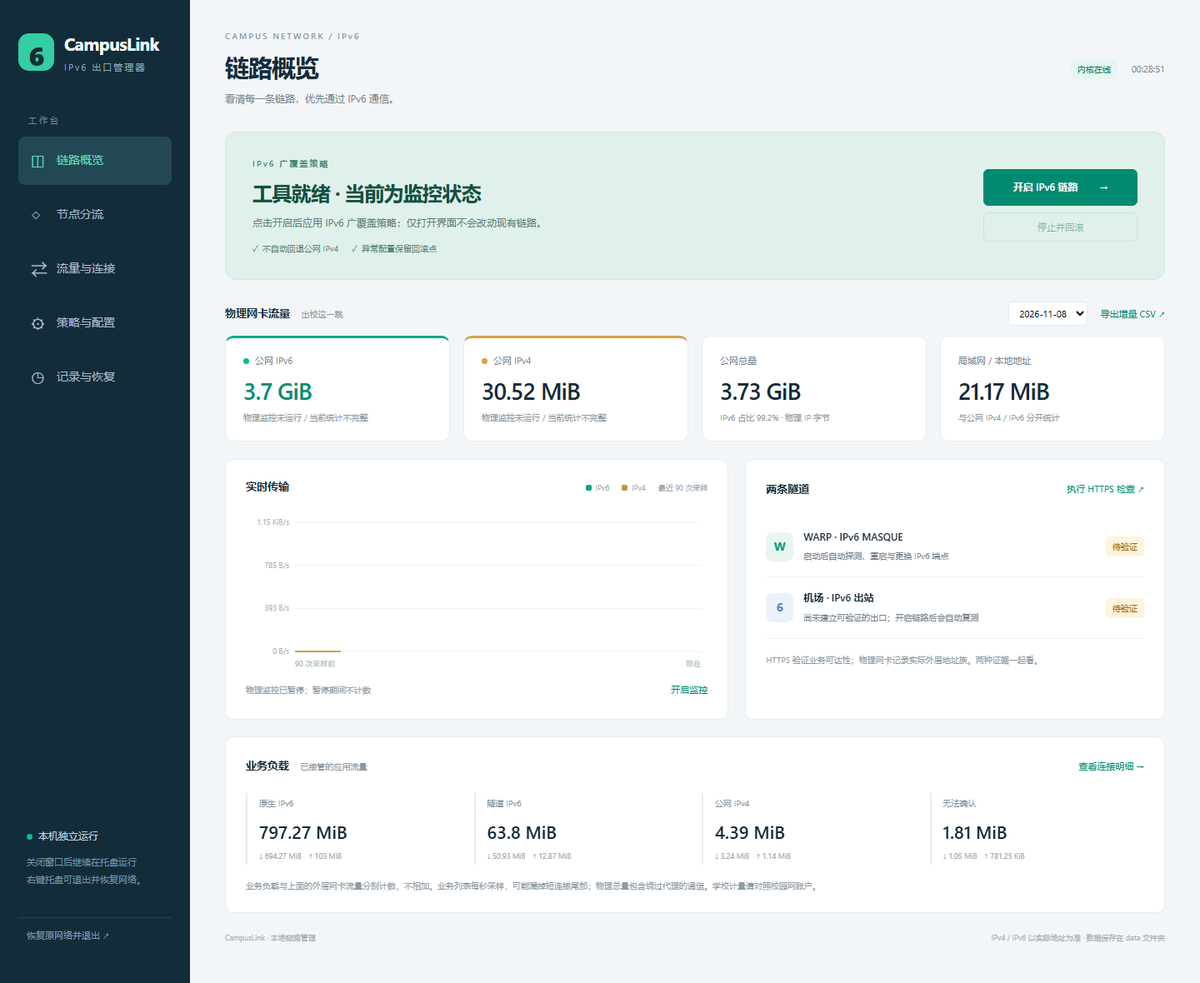
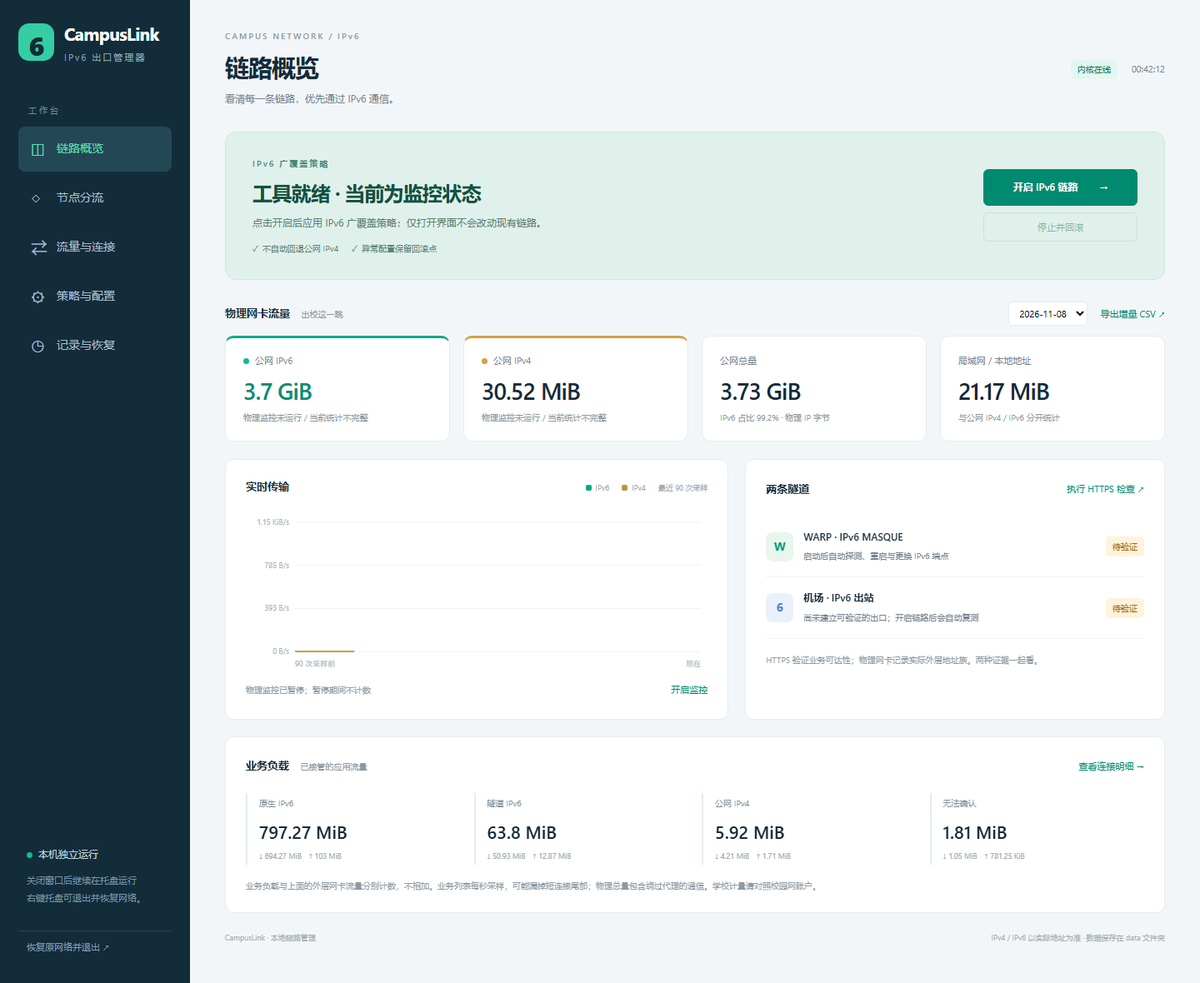
Fit the desktop window at 1100x750 and always start at the top
- sidebar spacing tightened; help note hides when the window is short
- page scroll is reset on load, scroll restoration disabled
- docs screenshots regenerated from the same build

diff --git a/web/style.css b/web/style.css
@@ -1,3 +1,4 @@
-:root{--bg:#f3f6f8;--ink:#162b39;--muted:#75838e;--line:#e5ebef;--green:#008b70;--mint:#e8f7f1;--amber:#b97b1b;--blue:#437cbe}*{box-sizing:border-box}body{margin:0;background:var(--bg);color:var(--ink);font:14px/1.6 "Segoe UI","Microsoft YaHei UI",sans-serif}button,input,select,textarea{font:inherit}button,a,input,select,textarea{outline-offset:3px}button,a{cursor:pointer}button{border:0;background:none;color:inherit}button:disabled{opacity:.5;cursor:wait}aside{position:fixed;width:228px;inset:0 auto 0 0;background:#132c3a;color:#c4d4dd;padding:36px 22px;display:flex;flex-direction:column;z-index:3}.brand{display:flex;gap:12px;align-items:center;font-size:21px;color:white;letter-spacing:-.6px;font-weight:650}.brand small{display:block;color:#8ca6b5;font-weight:400;font-size:11px;letter-spacing:2px;margin-top:2px}.logo{display:grid;place-items:center;width:43px;height:45px;border-radius:13px;background:#35cda4;color:#102d34;font-size:32px;font-weight:800}.nav-label{font-size:10px;color:#6e8d9f;letter-spacing:3px;margin:47px 12px 12px}nav{display:flex;flex-direction:column;gap:7px}nav button{text-align:left;padding:13px 15px;border-radius:8px;color:#a7becb}nav button span{display:inline-block;width:31px;font-size:20px;vertical-align:middle}nav button.active{background:#244755;color:#60ddb6}nav button:hover{background:#203f4d}.side-note{margin-top:auto;font-size:12px;padding:20px 10px 10px}.side-note p{font-size:11px;line-height:1.9;color:#7896a8}.dot{display:inline-block;width:7px;height:7px;background:#10b893;border-radius:50%;margin-right:7px}.exit{text-align:left;color:#809fae;font-size:11px;margin:14px 0 0;padding:12px 10px;border-top:1px solid #28424f}main{margin-left:228px;padding:35px 42px 20px;max-width:1900px}header{display:flex;justify-content:space-between;align-items:center;margin-bottom:27px}.eyebrow{font-size:10px;letter-spacing:2px;color:#8b9ba5;font-weight:600}h1{font-size:29px;letter-spacing:-1px;margin:6px 0}header p{margin:2px 0;color:var(--muted);font-size:12px}.header-right{display:flex;align-items:center;gap:17px;font-size:11px;color:var(--muted)}.pill{display:inline-flex;align-items:center;justify-content:center;border-radius:5px;font-size:10px;line-height:1.6;padding:4px 8px;white-space:nowrap}.pill.green{background:#e5f6ee;color:#00856a}.pill.amber{background:#fff3dc;color:#9b6a13}.pill.muted{background:#e8edf1;color:#74828e}.pill.red{background:#fce8e5;color:#b0483b}.page{display:none}.page.active{display:block}.hero{border-radius:13px;background:#dff1ea;padding:29px 32px;display:flex;justify-content:space-between;align-items:center;border:1px solid #d1e7dd;margin-bottom:26px}.hero .eyebrow{color:#438976}.hero h2{font-size:24px;letter-spacing:-.7px;margin:8px 0;color:#14503f}.hero p{color:#598071;font-size:12px;margin:4px 0 13px}.hero-tags{display:flex;gap:16px;font-size:10px;color:#578573}.hero-tags span:before{content:'✓';margin-right:5px}.hero-actions{display:flex;flex-direction:column;gap:8px;min-width:185px}.primary{background:#008b70;color:white;border:1px solid #008b70;border-radius:6px;padding:11px 18px;font-size:12px;font-weight:600}.primary:hover{background:#00745e}.primary b{margin-left:22px}.secondary{border:1px solid #b5d4c8;border-radius:6px;padding:8px 18px;font-size:11px;color:#347762}.outline{border:1px solid #ced9df;border-radius:5px;padding:8px 13px;font-size:11px;background:white}.text-btn{font-size:11px;color:var(--green);text-decoration:none;padding:4px 0;white-space:nowrap}.section-top,.panel-head{display:flex;align-items:center;justify-content:space-between;gap:12px}.section-top{margin:20px 0 12px}h3{font-size:13px;font-weight:650;margin:0}.subtle{color:#8a98a2;font-size:10px;font-weight:400;margin-left:10px}.inline{display:flex;gap:15px;align-items:center}.inline select{padding:5px 8px;border:1px solid var(--line);background:white;border-radius:5px;font-size:11px}.metrics{display:grid;grid-template-columns:repeat(4,minmax(0,1fr));gap:16px;margin-bottom:21px}.metric{background:white;border:1px solid var(--line);border-radius:10px;padding:20px 21px}.metric>div{font-size:11px;color:#768893}.metric strong{display:block;font-size:28px;letter-spacing:-1px;margin:10px 0 8px;font-weight:600;line-height:1.2}.metric p{font-size:10px;margin:0;color:#8c99a2}.metric.green{border-top:3px solid #0aab87;padding-top:18px}.metric.green strong{color:#008e71}.metric.amber{border-top:3px solid #d5a043;padding-top:18px}.metric.amber .dot{background:#d5a043}.two-col{display:grid;grid-template-columns:1.2fr 1fr;gap:20px}.panel{background:white;border:1px solid var(--line);border-radius:10px;margin-bottom:20px;padding:22px 24px}.panel-head{margin-bottom:20px}.legend{display:flex;gap:15px;font-size:9px;color:#a0abb3}.legend-v6:before,.legend-v4:before{content:'';display:inline-block;width:7px;height:7px;background:#00a985;border-radius:2px;margin-right:5px}.legend-v4:before{background:#c3933e}canvas{display:block;width:100%;height:190px}.chart-foot{display:flex;justify-content:space-between;align-items:center;color:#91a0aa;font-size:10px;margin-top:10px}.link-row{display:flex;align-items:center;gap:12px;padding:13px 0;border-bottom:1px solid #f0f3f5}.link-row .pill{margin-left:auto}.link-row strong{font-size:12px;font-weight:600}.link-row p{font-size:10px;color:var(--muted);margin:4px 0;word-break:break-all}.link-icon{width:33px;height:35px;display:grid;place-items:center;background:#e8f6ee;color:#0a9a77;border-radius:8px;font-weight:700}.link-icon.blue{background:#ebf1fb;color:#5585c3}.explain{font-size:10px;line-height:1.9;color:#8d9aa3;margin-top:16px}.business-summary{display:grid;grid-template-columns:repeat(4,1fr);gap:16px}.biz-item{border-left:2px solid #e3eeea;padding-left:14px}.biz-item span{font-size:10px;color:#81939d}.biz-item strong{display:block;font-size:21px;margin-top:7px;font-weight:550}.biz-item small{font-size:9px;color:#9aa8b0}.toolbar{display:flex;gap:12px;align-items:center;margin-bottom:20px;flex-wrap:wrap}.segmented{display:flex;background:#f0f4f6;padding:3px;border-radius:6px}.segmented button{font-size:11px;padding:7px 13px;border-radius:4px;color:#788b97}.segmented button.active{background:white;color:var(--green);box-shadow:0 1px 3px #1232}.toolbar>input{margin-left:auto;width:240px}.toolbar>input,.toolbar>select{font-size:11px;padding:8px 10px;border:1px solid var(--line);border-radius:5px;background:white}.table-wrap{overflow:auto}table{width:100%;border-collapse:collapse;table-layout:fixed;font-size:11px}th{font-weight:500;color:#95a3ac;background:#f8fafb;text-align:left;padding:11px 10px;border-bottom:1px solid var(--line)}td{padding:13px 10px;border-bottom:1px solid #f0f3f5;word-break:break-all}th:nth-child(1){width:25%}th:nth-child(2){width:11%}th:nth-child(3){width:24%}th:nth-child(4){width:20%}th:nth-child(5),th:nth-child(6){width:10%}.numeric{text-align:right;font-variant-numeric:tabular-nums}td strong{font-weight:550}td small{display:block;font-size:9px;color:#95a2ad;margin-top:3px}.table-footer{font-size:10px;color:#92a2ae;margin-top:15px}.helper p{font-size:12px;color:#7d909e}.settings-grid{display:grid;grid-template-columns:1.1fr 1fr;gap:22px}.settings-grid>.panel{align-self:start}label{display:block;font-size:11px;color:#657f90;margin:16px 0 6px}label input,label select,label textarea{display:block;width:100%;border:1px solid #dfe7ec;border-radius:5px;background:#fbfcfd;padding:9px 11px;margin-top:7px;color:#244253;font-size:12px}textarea{resize:vertical;line-height:1.7}.field-help{font-size:10px;line-height:1.9;color:#94a1aa;margin:8px 0}.form-row{display:flex;gap:12px}.form-row label{flex:1;min-width:0}.form-actions{display:flex;gap:10px;margin-top:23px;flex-wrap:wrap}.check{display:flex;align-items:center;gap:8px}.check input{width:auto;display:inline;margin:0;accent-color:var(--green)}.exception-form{display:grid;grid-template-columns:1fr 1.6fr;gap:8px;margin-top:14px}.exception-form input,.exception-form select{width:100%;min-width:0;border:1px solid var(--line);border-radius:4px;padding:7px;font-size:11px}.exception-row{padding:10px 0;border-bottom:1px solid var(--line);font-size:11px;display:flex;justify-content:space-between;gap:10px}.exception-row small{color:#91a0a9}pre{white-space:pre-wrap;word-break:break-all;color:#4c6a7a;font-size:11px;max-height:500px;overflow:auto}.recovery-box{background:#f4f8f7;border:1px solid #e0ede7;border-radius:7px;padding:19px;margin:20px 0}.recovery-box p{font-size:11px;color:#80998f}.panel>p{font-size:12px;color:#7d919c}dl{font-size:11px;display:grid;grid-template-columns:120px 1fr;row-gap:12px}dt{color:#91a1ab}dd{margin:0;word-break:break-all}.event{display:grid;grid-template-columns:140px 60px 1fr;gap:15px;padding:12px 0;border-bottom:1px solid #f1f4f5;font-size:11px;color:#607e90}.event time{color:#9aa9b3}.event .event-kind{color:#20997c}.notice{padding:12px 17px;background:#e8f4ef;color:#2a8068;border:1px solid #cfe5d9;border-radius:7px;font-size:12px;margin-bottom:16px;white-space:pre-wrap}.notice.error{background:#fff3e9;color:#a06b2b;border-color:#f3ddc7}.toast{position:fixed;right:28px;bottom:25px;max-width:600px;background:#143b42;color:#ecfff9;box-shadow:0 7px 30px #1233;padding:15px 23px;border-radius:8px;font-size:12px;z-index:10;white-space:pre-wrap}.hidden{display:none!important}footer{display:flex;justify-content:space-between;color:#a3afb6;font-size:9px;margin:22px 0 4px}.empty{text-align:center;padding:45px 15px;color:#9caab3}@media(min-width:1550px){main{padding-left:55px;padding-right:55px}.metric strong{font-size:34px}}@media(max-width:1150px){aside{width:190px;padding:30px 17px}main{margin-left:190px;padding:28px 25px}.two-col{grid-template-columns:1fr}.hero{padding:23px}.hero h2{font-size:21px}.settings-grid{grid-template-columns:1fr}.metric{padding:16px}.metric strong{font-size:25px}.header-right #clock{display:none}.subtle{display:block;margin-left:0}}@media(max-width:760px){aside{position:static;width:auto;padding:15px}.brand{font-size:17px}.logo{height:32px;width:32px;font-size:24px}.brand small,.side-note,.nav-label,.exit{display:none}nav{flex-direction:row;margin-top:15px;gap:4px}nav button{padding:7px 10px;font-size:11px}nav button span{display:none}main{margin:0;padding:22px 15px}.hero{gap:15px;flex-direction:column;align-items:stretch}.hero-actions{flex-direction:row}.hero-actions button{flex:1}.hero h2{font-size:22px}.metrics{grid-template-columns:repeat(2,1fr);gap:10px}.business-summary{grid-template-columns:repeat(2,1fr)}.header-right{display:none}.panel{padding:17px}.toolbar>input{margin-left:0;flex:1}.legend{gap:9px}.legend span:last-child{display:none}table{min-width:800px}.inline{gap:8px}footer span{display:none}.event{grid-template-columns:90px 40px 1fr;font-size:10px;gap:6px}}
+:root{--bg:#f3f6f8;--ink:#162b39;--muted:#75838e;--line:#e5ebef;--green:#008b70;--mint:#e8f7f1;--amber:#b97b1b;--blue:#437cbe}*{box-sizing:border-box}body{margin:0;background:var(--bg);color:var(--ink);font:14px/1.6 "Segoe UI","Microsoft YaHei UI",sans-serif}button,input,select,textarea{font:inherit}button,a,input,select,textarea{outline-offset:3px}button,a{cursor:pointer}button{border:0;background:none;color:inherit}button:disabled{opacity:.5;cursor:wait}aside{position:fixed;width:228px;inset:0 auto 0 0;background:#132c3a;color:#c4d4dd;padding:24px 22px;display:flex;flex-direction:column;z-index:3;overflow-y:auto;scrollbar-width:thin}.brand{display:flex;gap:12px;align-items:center;font-size:21px;color:white;letter-spacing:-.6px;font-weight:650}.brand small{display:block;color:#8ca6b5;font-weight:400;font-size:11px;letter-spacing:2px;margin-top:2px}.logo{display:grid;place-items:center;width:43px;height:45px;border-radius:13px;background:#35cda4;color:#102d34;font-size:32px;font-weight:800}.nav-label{font-size:10px;color:#6e8d9f;letter-spacing:3px;margin:47px 12px 12px}nav{display:flex;flex-direction:column;gap:5px}nav button{text-align:left;padding:11px 15px;border-radius:8px;color:#a7becb}nav button span{display:inline-block;width:31px;font-size:20px;vertical-align:middle}nav button.active{background:#244755;color:#60ddb6}nav button:hover{background:#203f4d}.side-note{margin-top:auto;font-size:12px;padding:14px 10px 8px}.side-note p{font-size:11px;line-height:1.9;color:#7896a8}.dot{display:inline-block;width:7px;height:7px;background:#10b893;border-radius:50%;margin-right:7px}.exit{text-align:left;color:#809fae;font-size:11px;margin:10px 0 0;padding:10px 10px;border-top:1px solid #28424f}main{margin-left:228px;padding:35px 42px 20px;max-width:1900px}header{display:flex;justify-content:space-between;align-items:center;margin-bottom:27px}.eyebrow{font-size:10px;letter-spacing:2px;color:#8b9ba5;font-weight:600}h1{font-size:29px;letter-spacing:-1px;margin:6px 0}header p{margin:2px 0;color:var(--muted);font-size:12px}.header-right{display:flex;align-items:center;gap:17px;font-size:11px;color:var(--muted)}.pill{display:inline-flex;align-items:center;justify-content:center;border-radius:5px;font-size:10px;line-height:1.6;padding:4px 8px;white-space:nowrap}.pill.green{background:#e5f6ee;color:#00856a}.pill.amber{background:#fff3dc;color:#9b6a13}.pill.muted{background:#e8edf1;color:#74828e}.pill.red{background:#fce8e5;color:#b0483b}.page{display:none}.page.active{display:block}.hero{border-radius:13px;background:#dff1ea;padding:29px 32px;display:flex;justify-content:space-between;align-items:center;border:1px solid #d1e7dd;margin-bottom:26px}.hero .eyebrow{color:#438976}.hero h2{font-size:24px;letter-spacing:-.7px;margin:8px 0;color:#14503f}.hero p{color:#598071;font-size:12px;margin:4px 0 13px}.hero-tags{display:flex;gap:16px;font-size:10px;color:#578573}.hero-tags span:before{content:'✓';margin-right:5px}.hero-actions{display:flex;flex-direction:column;gap:8px;min-width:185px}.primary{background:#008b70;color:white;border:1px solid #008b70;border-radius:6px;padding:11px 18px;font-size:12px;font-weight:600}.primary:hover{background:#00745e}.primary b{margin-left:22px}.secondary{border:1px solid #b5d4c8;border-radius:6px;padding:8px 18px;font-size:11px;color:#347762}.outline{border:1px solid #ced9df;border-radius:5px;padding:8px 13px;font-size:11px;background:white}.text-btn{font-size:11px;color:var(--green);text-decoration:none;padding:4px 0;white-space:nowrap}.section-top,.panel-head{display:flex;align-items:center;justify-content:space-between;gap:12px}.section-top{margin:20px 0 12px}h3{font-size:13px;font-weight:650;margin:0}.subtle{color:#8a98a2;font-size:10px;font-weight:400;margin-left:10px}.inline{display:flex;gap:15px;align-items:center}.inline select{padding:5px 8px;border:1px solid var(--line);background:white;border-radius:5px;font-size:11px}.metrics{display:grid;grid-template-columns:repeat(4,minmax(0,1fr));gap:16px;margin-bottom:21px}.metric{background:white;border:1px solid var(--line);border-radius:10px;padding:20px 21px}.metric>div{font-size:11px;color:#768893}.metric strong{display:block;font-size:28px;letter-spacing:-1px;margin:10px 0 8px;font-weight:600;line-height:1.2}.metric p{font-size:10px;margin:0;color:#8c99a2}.metric.green{border-top:3px solid #0aab87;padding-top:18px}.metric.green strong{color:#008e71}.metric.amber{border-top:3px solid #d5a043;padding-top:18px}.metric.amber .dot{background:#d5a043}.two-col{display:grid;grid-template-columns:1.2fr 1fr;gap:20px}.panel{background:white;border:1px solid var(--line);border-radius:10px;margin-bottom:20px;padding:22px 24px}.panel-head{margin-bottom:20px}.legend{display:flex;gap:15px;font-size:9px;color:#a0abb3}.legend-v6:before,.legend-v4:before{content:'';display:inline-block;width:7px;height:7px;background:#00a985;border-radius:2px;margin-right:5px}.legend-v4:before{background:#c3933e}canvas{display:block;width:100%;height:190px}.chart-foot{display:flex;justify-content:space-between;align-items:center;color:#91a0aa;font-size:10px;margin-top:10px}.link-row{display:flex;align-items:center;gap:12px;padding:13px 0;border-bottom:1px solid #f0f3f5}.link-row .pill{margin-left:auto}.link-row strong{font-size:12px;font-weight:600}.link-row p{font-size:10px;color:var(--muted);margin:4px 0;word-break:break-all}.link-icon{width:33px;height:35px;display:grid;place-items:center;background:#e8f6ee;color:#0a9a77;border-radius:8px;font-weight:700}.link-icon.blue{background:#ebf1fb;color:#5585c3}.explain{font-size:10px;line-height:1.9;color:#8d9aa3;margin-top:16px}.business-summary{display:grid;grid-template-columns:repeat(4,1fr);gap:16px}.biz-item{border-left:2px solid #e3eeea;padding-left:14px}.biz-item span{font-size:10px;color:#81939d}.biz-item strong{display:block;font-size:21px;margin-top:7px;font-weight:550}.biz-item small{font-size:9px;color:#9aa8b0}.toolbar{display:flex;gap:12px;align-items:center;margin-bottom:20px;flex-wrap:wrap}.segmented{display:flex;background:#f0f4f6;padding:3px;border-radius:6px}.segmented button{font-size:11px;padding:7px 13px;border-radius:4px;color:#788b97}.segmented button.active{background:white;color:var(--green);box-shadow:0 1px 3px #1232}.toolbar>input{margin-left:auto;width:240px}.toolbar>input,.toolbar>select{font-size:11px;padding:8px 10px;border:1px solid var(--line);border-radius:5px;background:white}.table-wrap{overflow:auto}table{width:100%;border-collapse:collapse;table-layout:fixed;font-size:11px}th{font-weight:500;color:#95a3ac;background:#f8fafb;text-align:left;padding:11px 10px;border-bottom:1px solid var(--line)}td{padding:13px 10px;border-bottom:1px solid #f0f3f5;word-break:break-all}th:nth-child(1){width:25%}th:nth-child(2){width:11%}th:nth-child(3){width:24%}th:nth-child(4){width:20%}th:nth-child(5),th:nth-child(6){width:10%}.numeric{text-align:right;font-variant-numeric:tabular-nums}td strong{font-weight:550}td small{display:block;font-size:9px;color:#95a2ad;margin-top:3px}.table-footer{font-size:10px;color:#92a2ae;margin-top:15px}.helper p{font-size:12px;color:#7d909e}.settings-grid{display:grid;grid-template-columns:1.1fr 1fr;gap:22px}.settings-grid>.panel{align-self:start}label{display:block;font-size:11px;color:#657f90;margin:16px 0 6px}label input,label select,label textarea{display:block;width:100%;border:1px solid #dfe7ec;border-radius:5px;background:#fbfcfd;padding:9px 11px;margin-top:7px;color:#244253;font-size:12px}textarea{resize:vertical;line-height:1.7}.field-help{font-size:10px;line-height:1.9;color:#94a1aa;margin:8px 0}.form-row{display:flex;gap:12px}.form-row label{flex:1;min-width:0}.form-actions{display:flex;gap:10px;margin-top:23px;flex-wrap:wrap}.check{display:flex;align-items:center;gap:8px}.check input{width:auto;display:inline;margin:0;accent-color:var(--green)}.exception-form{display:grid;grid-template-columns:1fr 1.6fr;gap:8px;margin-top:14px}.exception-form input,.exception-form select{width:100%;min-width:0;border:1px solid var(--line);border-radius:4px;padding:7px;font-size:11px}.exception-row{padding:10px 0;border-bottom:1px solid var(--line);font-size:11px;display:flex;justify-content:space-between;gap:10px}.exception-row small{color:#91a0a9}pre{white-space:pre-wrap;word-break:break-all;color:#4c6a7a;font-size:11px;max-height:500px;overflow:auto}.recovery-box{background:#f4f8f7;border:1px solid #e0ede7;border-radius:7px;padding:19px;margin:20px 0}.recovery-box p{font-size:11px;color:#80998f}.panel>p{font-size:12px;color:#7d919c}dl{font-size:11px;display:grid;grid-template-columns:120px 1fr;row-gap:12px}dt{color:#91a1ab}dd{margin:0;word-break:break-all}.event{display:grid;grid-template-columns:140px 60px 1fr;gap:15px;padding:12px 0;border-bottom:1px solid #f1f4f5;font-size:11px;color:#607e90}.event time{color:#9aa9b3}.event .event-kind{color:#20997c}.notice{padding:12px 17px;background:#e8f4ef;color:#2a8068;border:1px solid #cfe5d9;border-radius:7px;font-size:12px;margin-bottom:16px;white-space:pre-wrap}.notice.error{background:#fff3e9;color:#a06b2b;border-color:#f3ddc7}.toast{position:fixed;right:28px;bottom:25px;max-width:600px;background:#143b42;color:#ecfff9;box-shadow:0 7px 30px #1233;padding:15px 23px;border-radius:8px;font-size:12px;z-index:10;white-space:pre-wrap}.hidden{display:none!important}footer{display:flex;justify-content:space-between;color:#a3afb6;font-size:9px;margin:22px 0 4px}.empty{text-align:center;padding:45px 15px;color:#9caab3}@media(min-width:1550px){main{padding-left:55px;padding-right:55px}.metric strong{font-size:34px}}@media(max-width:1150px){aside{width:190px;padding:24px 17px;overflow-y:auto}main{margin-left:190px;padding:28px 25px}.two-col{grid-template-columns:1fr}.hero{padding:23px}.hero h2{font-size:21px}.settings-grid{grid-template-columns:1fr}.metric{padding:16px}.metric strong{font-size:25px}.header-right #clock{display:none}.subtle{display:block;margin-left:0}}@media(max-width:760px){aside{position:static;width:auto;padding:15px}.brand{font-size:17px}.logo{height:32px;width:32px;font-size:24px}.brand small,.side-note,.nav-label,.exit{display:none}nav{flex-direction:row;margin-top:15px;gap:4px}nav button{padding:7px 10px;font-size:11px}nav button span{display:none}main{margin:0;padding:22px 15px}.hero{gap:15px;flex-direction:column;align-items:stretch}.hero-actions{flex-direction:row}.hero-actions button{flex:1}.hero h2{font-size:22px}.metrics{grid-template-columns:repeat(2,1fr);gap:10px}.business-summary{grid-template-columns:repeat(2,1fr)}.header-right{display:none}.panel{padding:17px}.toolbar>input{margin-left:0;flex:1}.legend{gap:9px}.legend span:last-child{display:none}table{min-width:800px}.inline{gap:8px}footer span{display:none}.event{grid-template-columns:90px 40px 1fr;font-size:10px;gap:6px}}
 
 .node-grid{display:grid;grid-template-columns:repeat(2,minmax(0,1fr));gap:20px}.node-card{border:1px solid #dfe9ed;border-radius:9px;padding:20px;background:#fbfdfd;min-width:0}.node-card-head{display:flex;align-items:center;gap:12px}.node-card-head strong{font-size:14px}.node-card-head p{font-size:10px;color:#8a9aa4;margin:2px 0}.node-card-head .pill{margin-left:auto}.node-route{font-size:11px;line-height:1.9;padding:13px;background:#eaf5f0;border-radius:6px;margin-top:14px;color:#347563;overflow-wrap:anywhere}.node-card select{max-width:100%;font-size:11px}@media(max-width:1050px){.node-grid{grid-template-columns:1fr}.metrics{grid-template-columns:repeat(2,minmax(0,1fr))}.brand{font-size:18px}.brand small{font-size:9px;white-space:nowrap}.logo{width:35px;min-width:35px;height:37px}.brand{gap:8px}}
+@media(max-height:820px){.side-note{display:none}aside{padding:18px 22px}nav button{padding:9px 15px}}

diff --git a/web/app.js b/web/app.js
@@ -209,3 +209,8 @@ const deepPlane=params.get('plane');
 if(deepPlane){plane=deepPlane;document.querySelectorAll('[data-plane]').forEach(b=>b.classList.toggle('active',b.dataset.plane===deepPlane));}
 const deepLink=params.get('page');
 if(deepLink&&document.getElementById(deepLink))page(deepLink);else schedulePoll(0);
+// 每次打开都从页首开始，避免 WebView2 复用上次的滚动位置。
+if('scrollRestoration' in history)history.scrollRestoration='manual';
+const mainEl=document.querySelector('main');
+const toTop=()=>{if(mainEl)mainEl.scrollTop=0;window.scrollTo(0,0);};
+toTop();window.addEventListener('load',()=>{toTop();setTimeout(toTop,60)});
